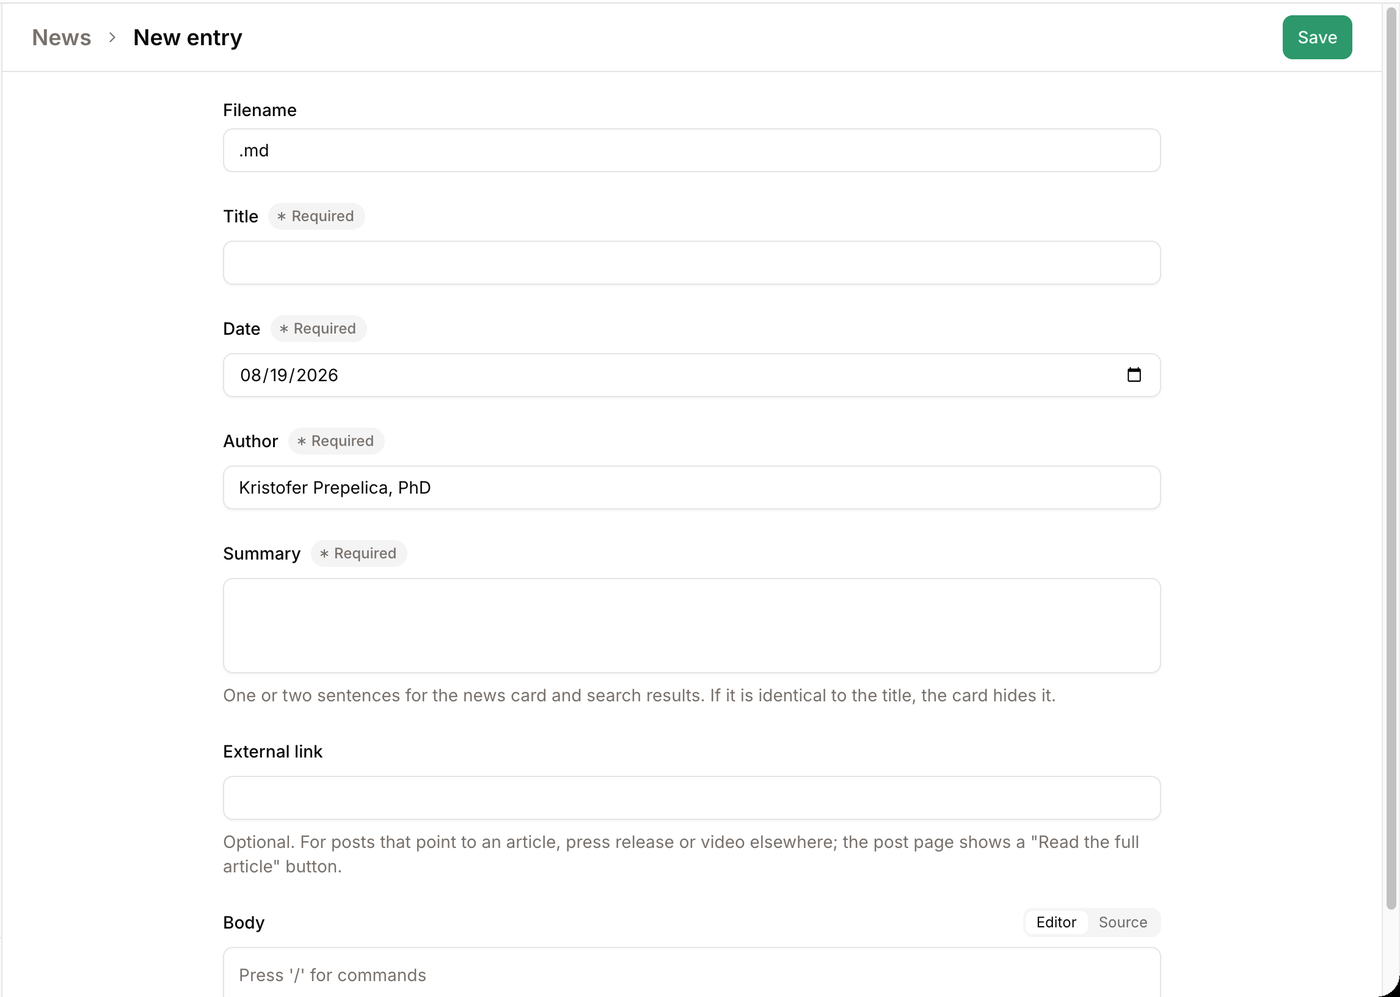
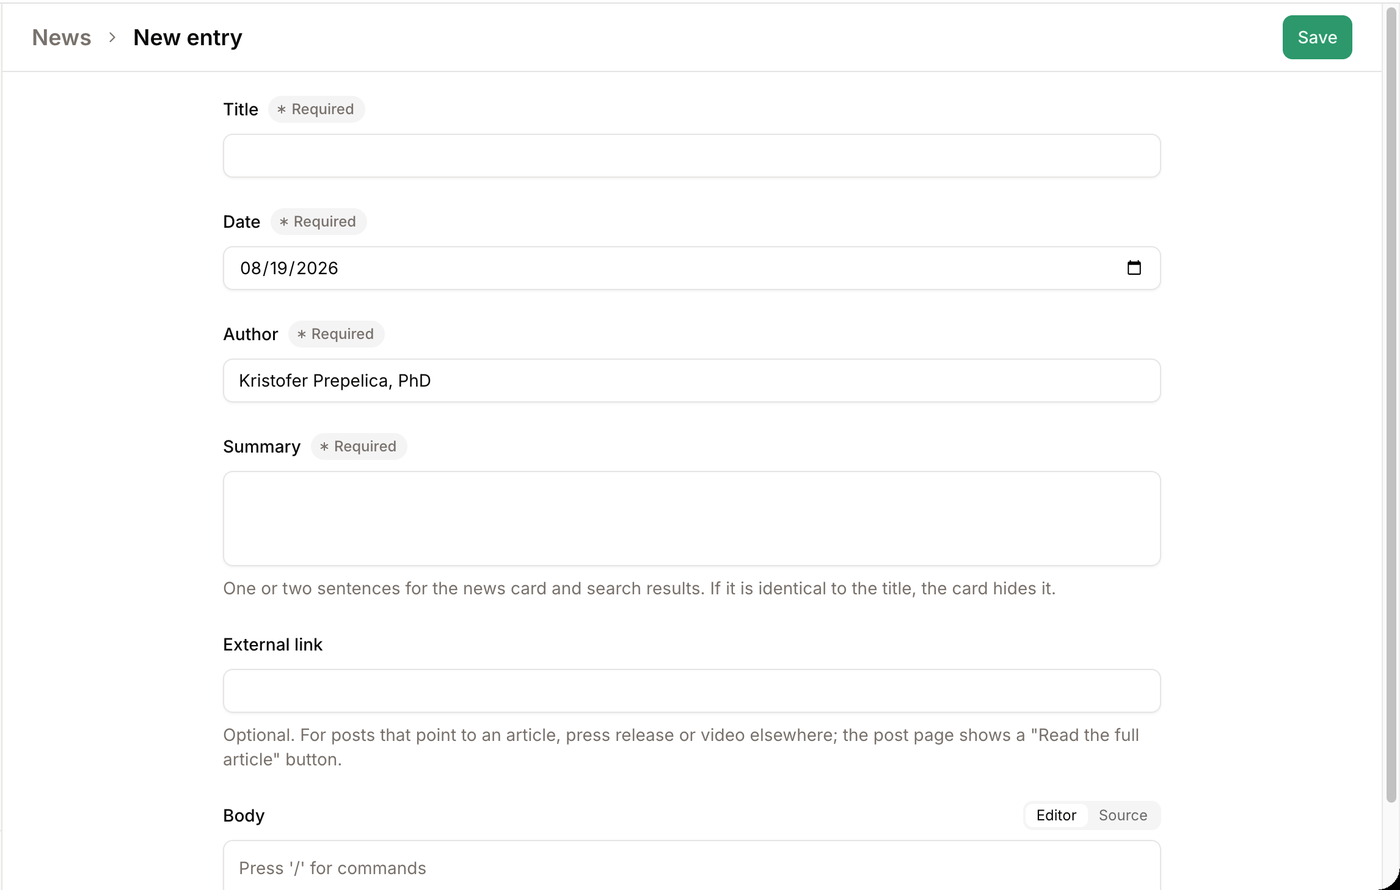
CMS: build news filenames from the title; hide the Filename box
Pages CMS fills a visible Filename box once, from the still-empty form,
so on a new post it only ever showed ".md" and never followed the title.
Kris has typed every filename by hand. With the box hidden, the CMS
builds the filename from the slugified title at first save, which is
what the CMS help text and README already describe.

The editing guide said the box fills itself in as you type. That was
written without trying it in the live app; step 2 and its screenshot now
match the real form. AGENTS.md records the decision.

diff --git a/docs/editing-guide.md b/docs/editing-guide.md
@@ -106,18 +106,18 @@ Notes:
 ## Adding a news post
 
 1. Click **News**, then the green **Add an entry** button at the top right.
-2. At the top of the form is a **Filename** box. It fills itself in as you type the title,
-   and it is the post's web address: a title of *Just Published: Recruitment Strategies in the
-   PROMISE Registry* gives `pcctc.org/news/just-published-recruitment-strategies-in-the-promise-registry`.
-   You can shorten it before the first save (keep the `.md` at the end); after that it can't
-   be changed, because renaming would break links and search rankings. So settle the title
-   first.
+2. Type the title. The first time you save, the post's web address is made from it: a title
+   of *Just Published: Recruitment Strategies in the PROMISE Registry* gives
+   `pcctc.org/news/just-published-recruitment-strategies-in-the-promise-registry`. The address
+   can't be changed after that, because renaming would break links and search rankings, so
+   settle the title before your first save. You can still edit the title later; the address
+   keeps the original wording.
 3. The date is set to today and the author is pre-filled; change either if needed. Fill in
    the rest, write the body (or paste the external link), and **Save**. On a new post Save
    is active from the start, so if you press it too early you'll be shown which required
    fields are still empty.
 
-![The New entry form, with the Filename box at the top and today's date already filled in](images/05-new-post.png)
+![The New entry form, with today's date and the author already filled in](images/05-new-post.png)
 
 Two kinds of posts exist on the site, and both are fine:
 

diff --git a/AGENTS.md b/AGENTS.md
@@ -141,6 +141,13 @@ site and earlier copy said "Medidata Rave"; don't copy that back either.
   save. News posts can't be renamed from the CMS (slugs are SEO-stable). CMS saves reformat
   YAML cosmetically (quoting, line folding, `chair: false` written out) and strip YAML
   comments, so don't put information in comments inside `src/data/*.yaml`.
+- **News filenames come from the title (2026-11-19).** Pages CMS fills a visible Filename box
+  once, from the still-empty form, so the box only ever showed `.md`, and Kris typed every
+  filename by hand until this change. Claude wrote the editing guide's claim that the box fills
+  itself in as you type, inferring it from the config without trying it in the live app. The
+  box is now hidden (`filename.field: false` in `.pages.yml`), and the CMS builds the name from
+  the slugified title at first save. Before you document CMS behavior for staff, try it in the
+  app.
 
 ## Development
 
